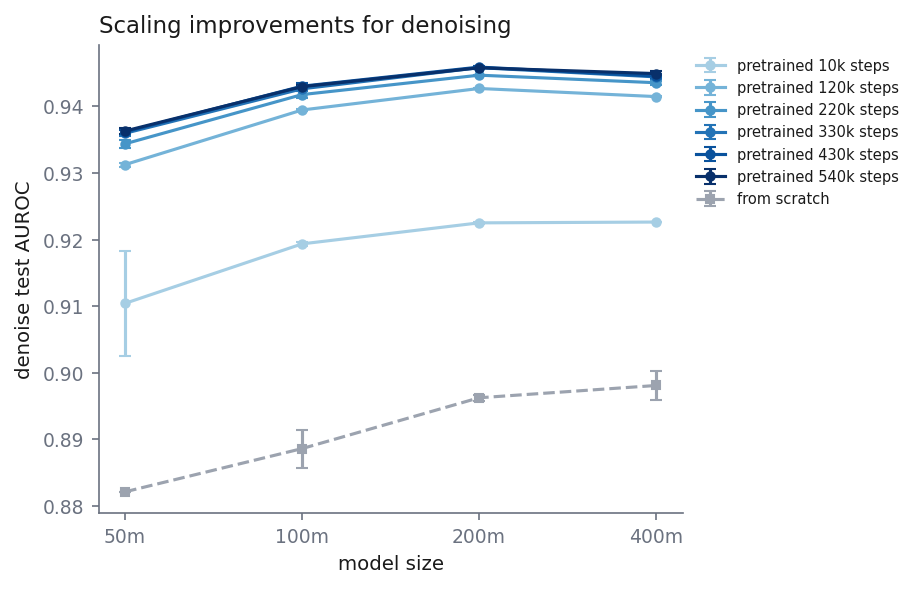
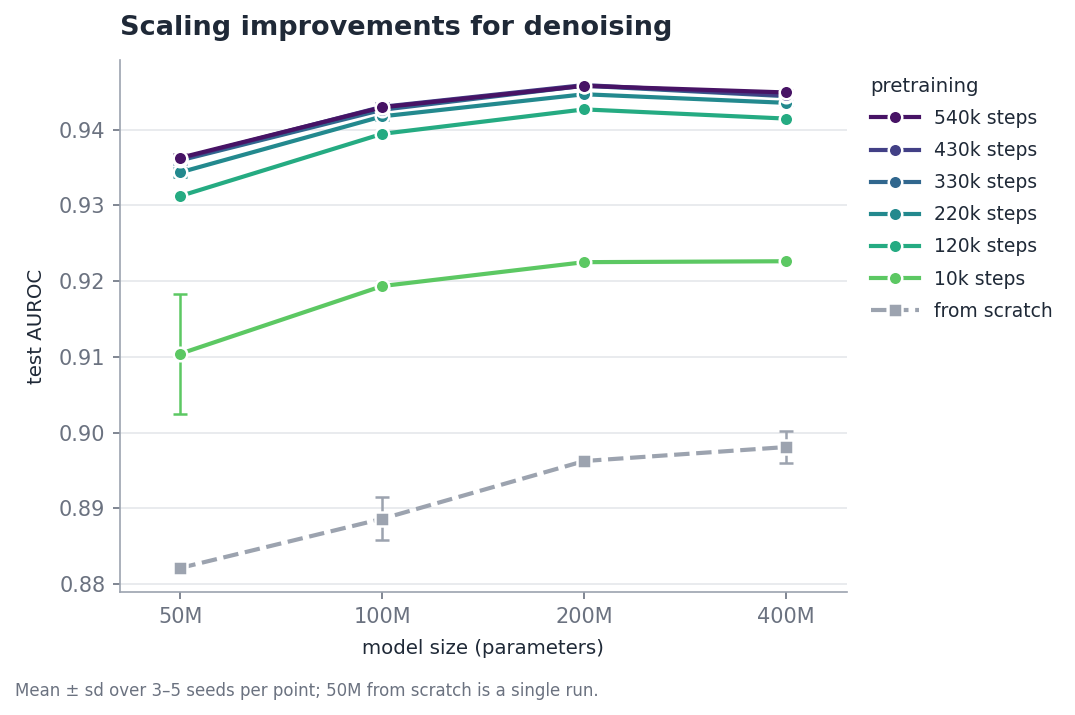
Summary D: restyled plot, legend ordered as the lines stack
Claude-Session: https://claude.ai/code/session_01ATgkXx1oRRqvzB3G8wYeta

diff --git a/sweeps/plot_summary.py b/sweeps/plot_summary.py
@@ -119,22 +119,40 @@ def denoise_cells():
 
 
 def fig_d():
+    from matplotlib.lines import Line2D
     cells = denoise_cells()
-    xs = list(D_SCALE)
+    xs = list(D_SCALE); xi = np.arange(len(xs))
     sd = lambda v: float(np.std(v, ddof=1)) if len(v) > 1 else 0.0
-    fig, ax = plt.subplots(figsize=(6.2, 4.0))
-    cmap = plt.get_cmap("Blues")
-    for i, c in enumerate(D_CKPTS):
-        v = [cells[(x, c)] for x in xs]
-        ax.errorbar(xs, [np.mean(u) for u in v], yerr=[sd(u) for u in v], fmt="o-", ms=4, capsize=3,
-                    color=cmap(0.35 + 0.65 * i / (len(D_CKPTS) - 1)), label=f"pretrained {c // 1000}k steps")
-    v = [cells[(x, 0)] for x in xs]
-    ax.errorbar(xs, [np.mean(u) for u in v], yerr=[sd(u) for u in v], fmt="s--", ms=4, capsize=3,
-                color=BASE, label="from scratch")
-    ax.set_xlabel("model size"); ax.set_ylabel("denoise test AUROC")
-    ax.set_title("Scaling improvements for denoising", loc="left")
-    ax.legend(frameon=False, fontsize=7, loc="upper left", bbox_to_anchor=(1.0, 1.0))
-    save(fig, "D_denoise.png")
+    ink, muted = "#1f2937", "#6b7280"
+    style = {"font.family": "DejaVu Sans", "font.size": 10, "axes.edgecolor": "#9ca3af",
+             "axes.linewidth": 0.8, "axes.labelcolor": ink, "text.color": ink,
+             "xtick.color": muted, "ytick.color": muted, "axes.spines.top": False,
+             "axes.spines.right": False, "savefig.bbox": "tight", "figure.dpi": 200}
+    with plt.rc_context(style):
+        fig, ax = plt.subplots(figsize=(7.2, 4.6))
+        ax.yaxis.grid(True, color="#e5e7eb", lw=0.8); ax.set_axisbelow(True)
+        cmap = plt.get_cmap("viridis_r")
+        cols = {c: cmap(0.25 + 0.7 * i / (len(D_CKPTS) - 1)) for i, c in enumerate(D_CKPTS)}
+        series = [(0, "#9ca3af", "from scratch", "s", "--")] + \
+                 [(c, cols[c], f"{c // 1000}k steps", "o", "-") for c in D_CKPTS]
+        means = {c: np.array([np.mean(cells[(x, c)]) for x in xs]) for c, *_ in series}
+        handles = []
+        for c, col, lab, mk, ls in series:
+            ax.errorbar(xi, means[c], yerr=[sd(cells[(x, c)]) for x in xs], color=col, lw=2.0, ls=ls,
+                        marker=mk, ms=6.5, mfc=col, mec="white", mew=1.2, capsize=3.5, capthick=1.2,
+                        elinewidth=1.2, zorder=3)
+            handles.append(Line2D([], [], color=col, lw=2.0, ls=ls, marker=mk, ms=6.5, mec="white", mew=1.2, label=lab))
+        ax.set_xticks(xi); ax.set_xticklabels([x.upper() for x in xs])
+        ax.set_xlim(-0.3, len(xs) - 0.7)
+        ax.set_xlabel("model size (parameters)", labelpad=6); ax.set_ylabel("test AUROC", labelpad=6)
+        ax.set_title("Scaling improvements for denoising", loc="left", fontsize=13, fontweight="bold", pad=12)
+        leg = ax.legend(handles=handles[::-1], title="pretraining", frameon=False, fontsize=9,
+                        title_fontsize=9.5, loc="upper left", bbox_to_anchor=(1.01, 1.0),
+                        handlelength=2.6, labelspacing=0.7)
+        leg._legend_box.align = "left"
+        fig.text(0.01, -0.02, "Mean ± sd over 3–5 seeds per point; 50M from scratch is a single run.",
+                 fontsize=8, color=muted)
+        save(fig, "D_denoise.png")
     rows = ["scale,pretraining_steps,n_seeds,mean_auroc,sd_auroc,min_auroc,max_auroc,per_seed_auroc"]
     for x in xs:
         for c in [0] + D_CKPTS:
